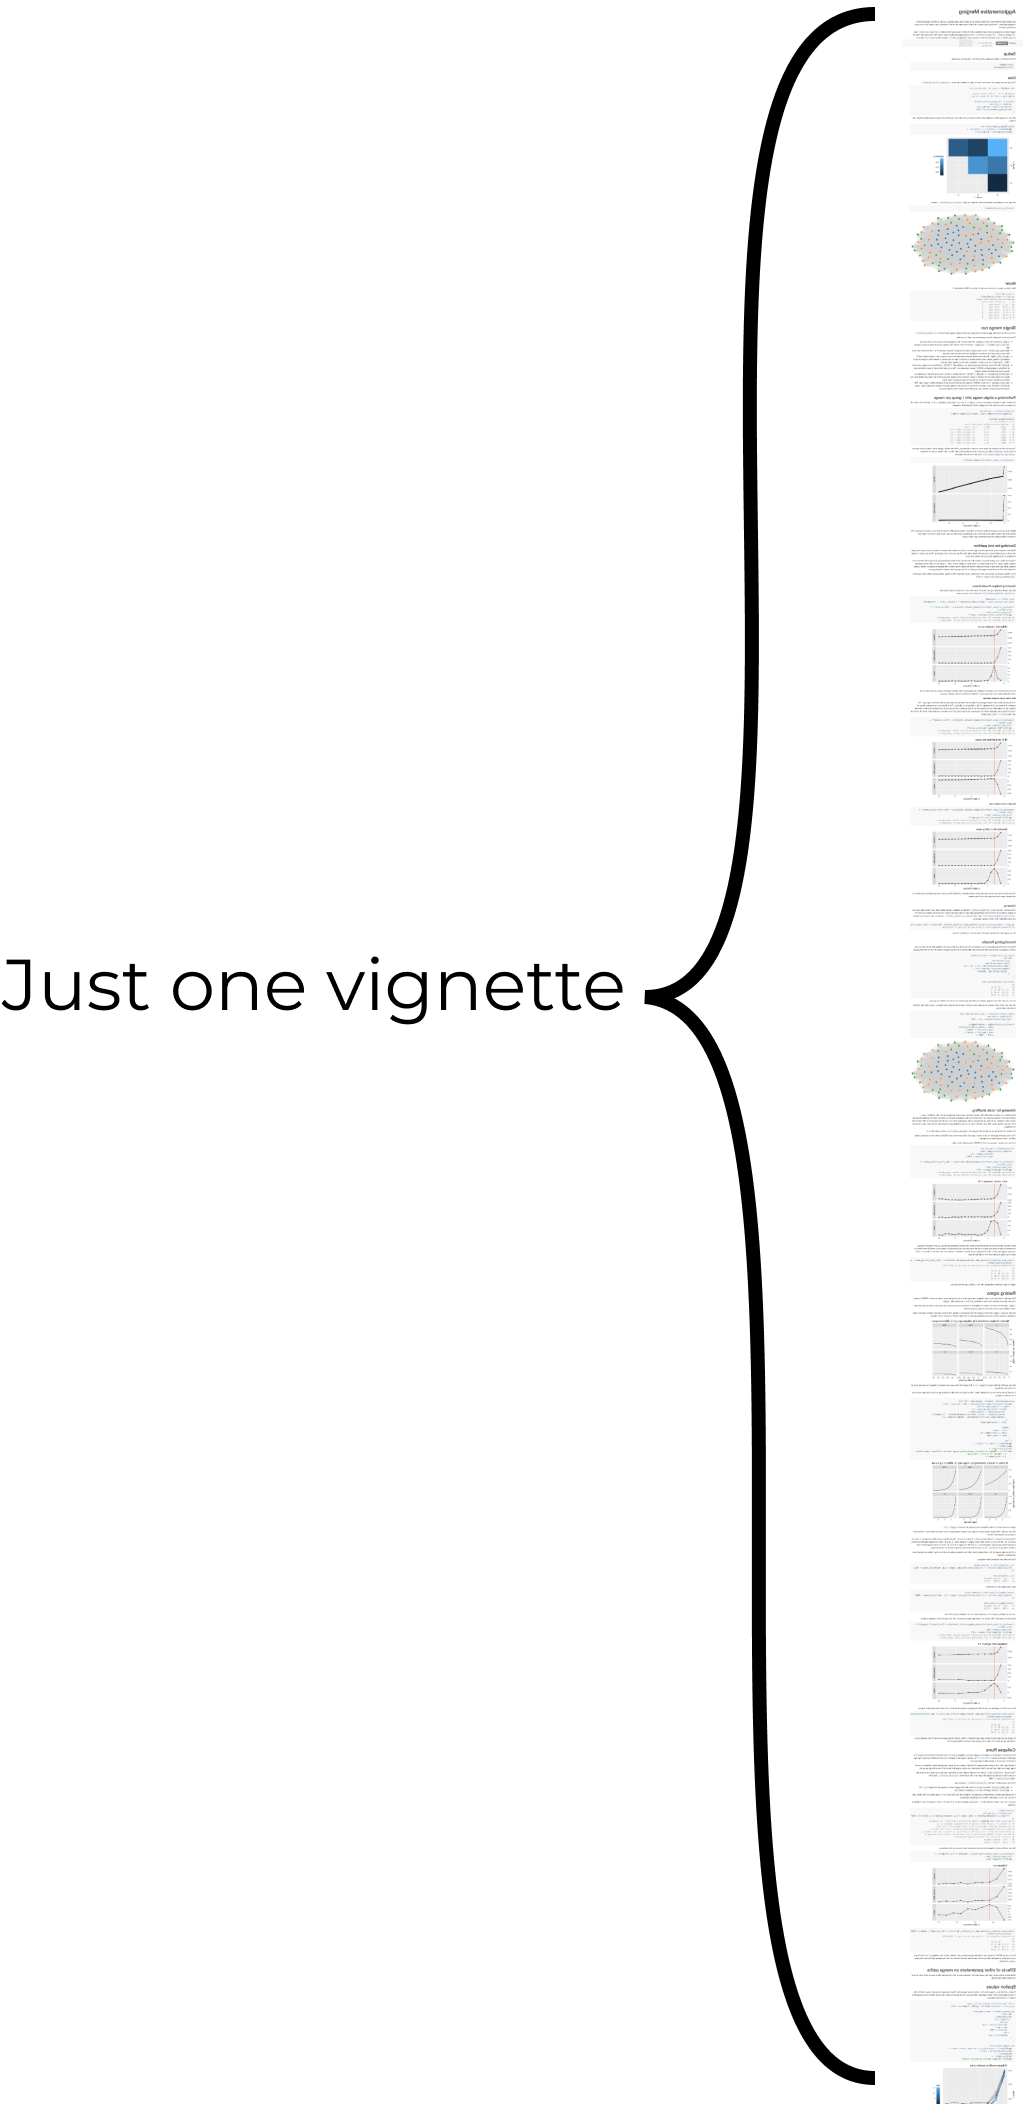
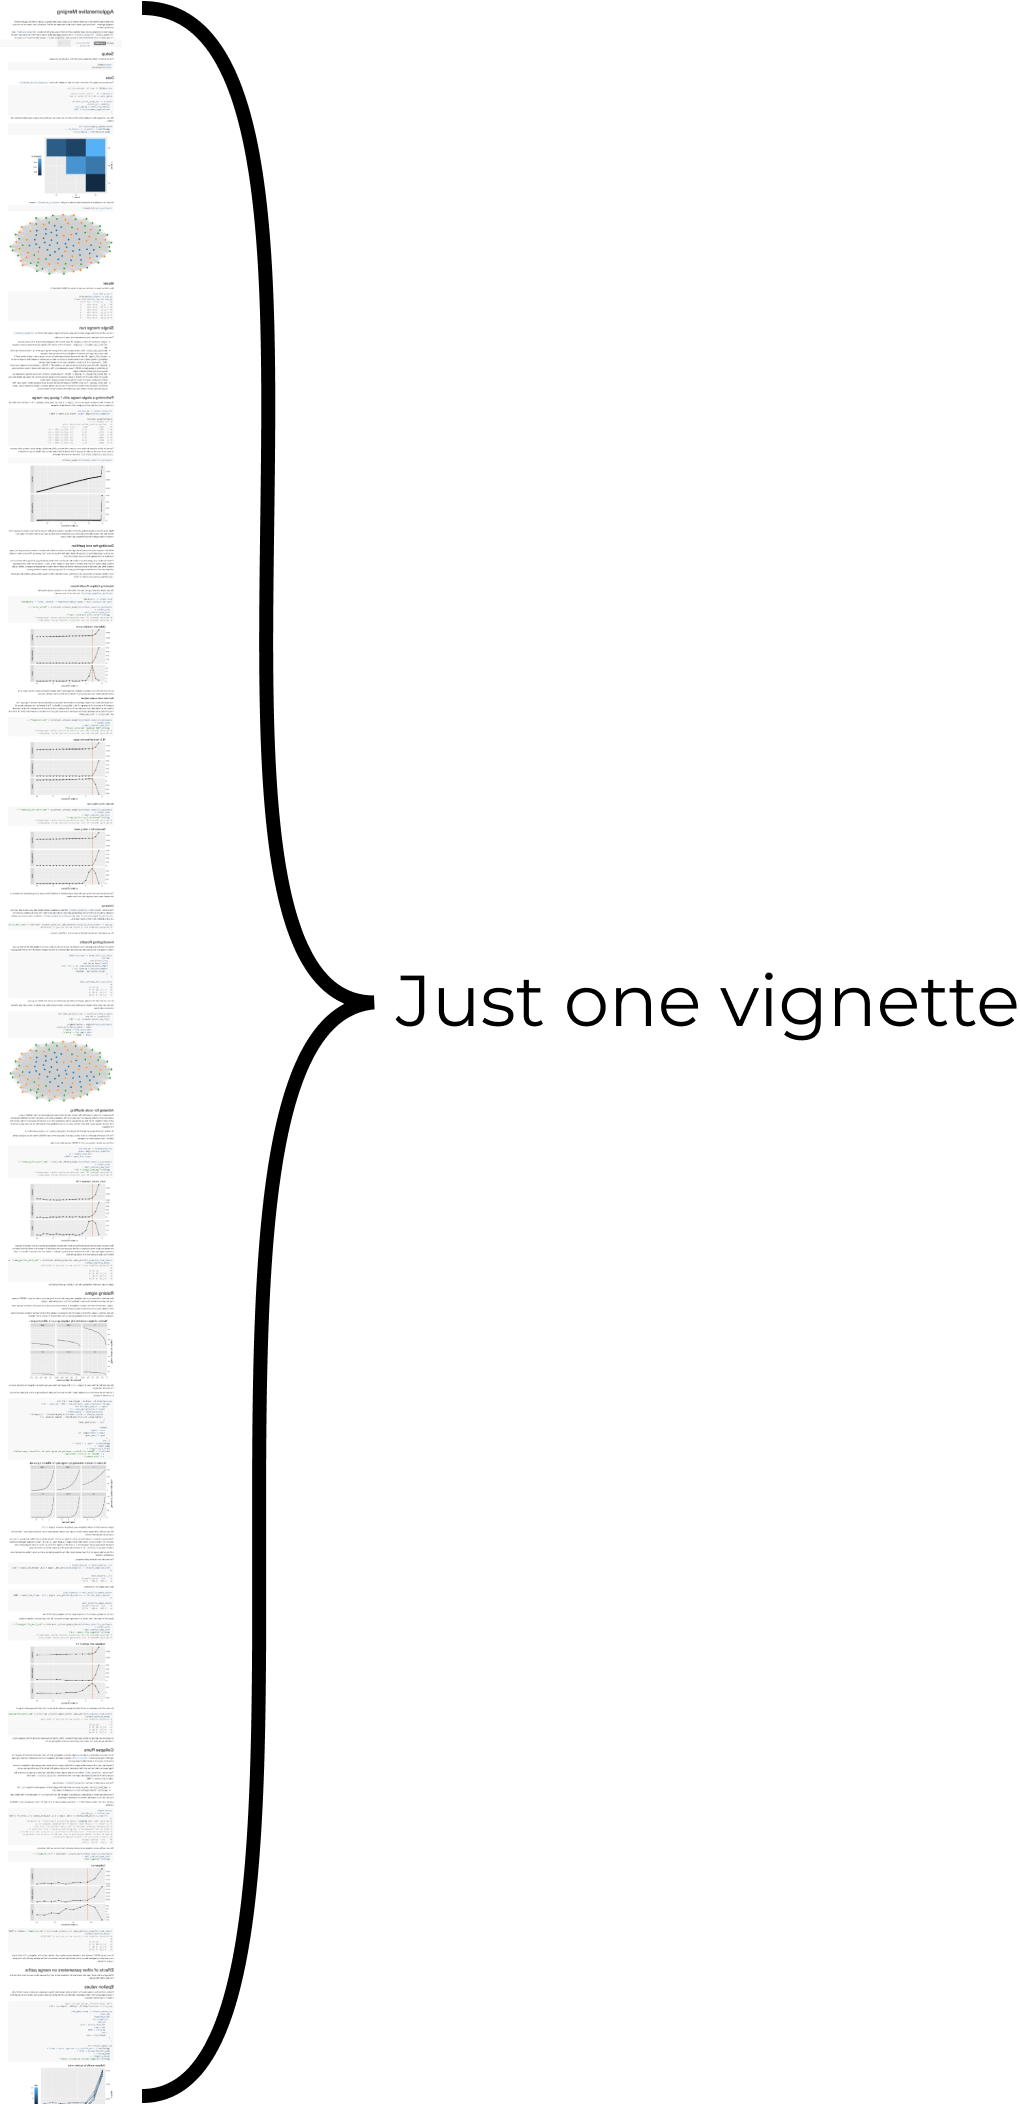
Some last fiddles with formatting and content

Changed region(s): [[0.0, 0.0, 1.0, 1.0], [0.152, 0.0, 0.2431, 0.0618]]

diff --git a/index.html b/index.html
@@ -226,7 +226,8 @@ Decided to write algorithms from scratch using `Rcpp`
   
 ]
 .pull-right[
-  ![:centerPic 100](figs/igraph_logo.png)
+![:spacePx 50]
+![:centerPic 100](figs/igraph_logo.png)
 ]
 
 ---
@@ -270,12 +271,11 @@ Write your documentation with as little friction to publication as possible
 
 ]
 .pull-right[
-![:spacePx 50]
-.shadowed[
-![:centerPic](figs/roxygen.png)
-]
-]
 
+&lt;div class = "shadowed" style="margin-top: -3rem;"&gt;
+![:centerPic 82](figs/roxygen.png)
+&lt;/div&gt;
+]
 
 ---
 
@@ -454,10 +454,14 @@ class: middle
 
 ]
 
+.pull-right[
 
-&lt;div class = "pull-right" style = "margin-top: -5em;"&gt;
-&lt;img src = "figs/vignette_length.png" height = 600&gt;
+&lt;div style="margin-top: -7rem; text-align: right;"&gt;
+&lt;img src='figs/vignette_length.png' width = 61%/&gt;
 &lt;/div&gt;
+]
+
+
 
 ---
 
